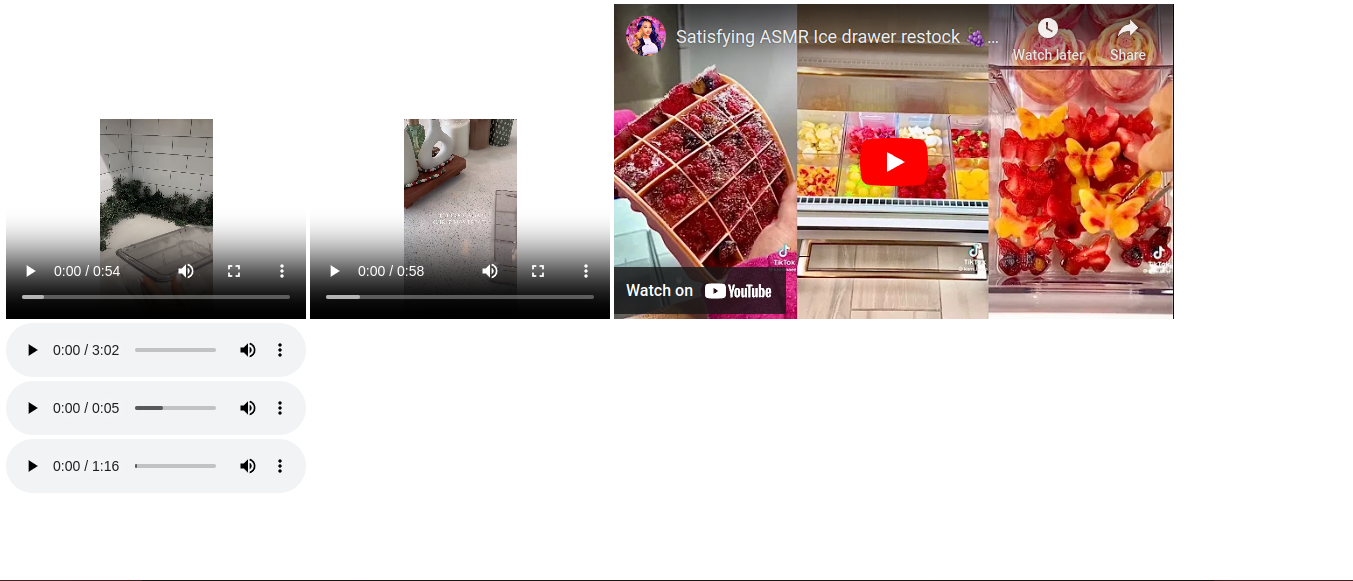
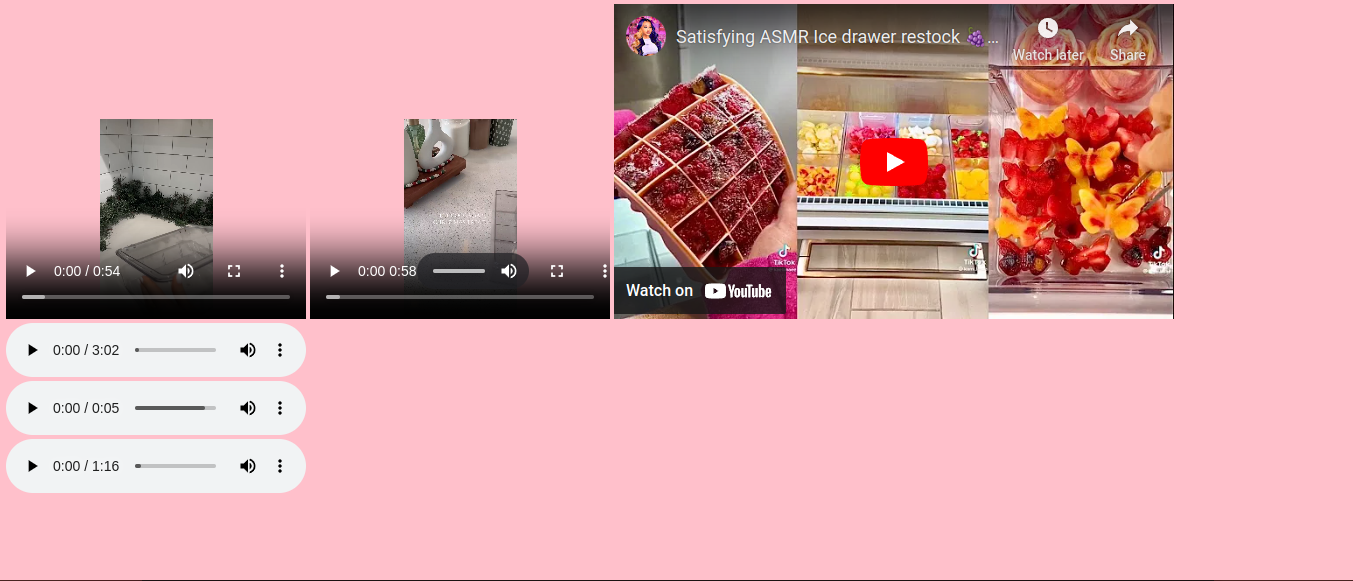
updated

diff --git a/index.html b/index.html
@@ -3,6 +3,7 @@
 <head>
     <meta charset="UTF-8">
     <meta name="viewport" content="width=device-width, initial-scale=1.0">
+    <link rel="stylesheet" href="style.css">
     <title>video and audio</title>
 </head>
 <body>

diff --git a/style.css b/style.css
@@ -1,0 +1,3 @@
+body{
+background-color:pink;
+}

diff --git a/README.MD b/README.MD
@@ -4,4 +4,4 @@
 * This audios and videos are added in the page with the help of HTML elements tags like **video,audio**  and **iframe**.
 
 
-![Alt text](picture.png)
+![!\[Alt text\](picture.png)](picture.png)
